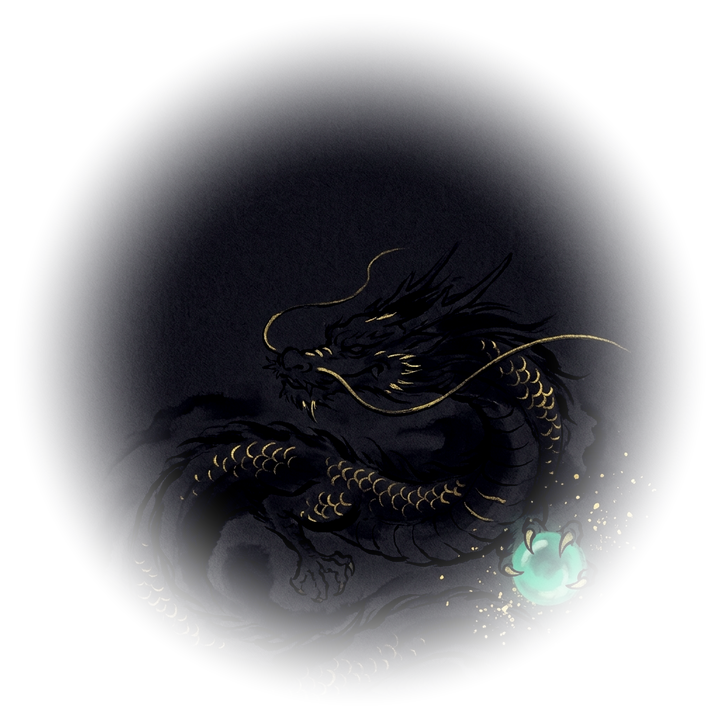
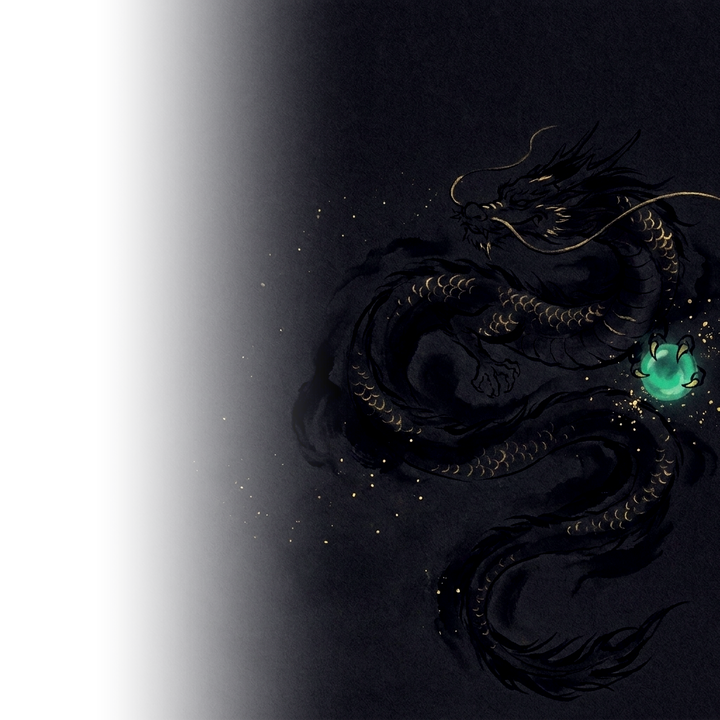
Calmer hover states, mobile verdict row, share intents, Ryūjin art on the right, lighter preview image
Hover pass (Ben: "the hover effects feel a bit extreme"): four motion tokens in index.css
(--ease-out, --hover-ms, --lift, --hover-glow); cards lift 2px with no scale and half the glow,
the chart block and the lookup panel only wake their border, the logo scales 3% with no rotation
or spinning border, buttons lift 1px. Transitions are split per property so the entrance spring
no longer drives hover; the stat-card entrance fill is `backwards` so its hover lift is not locked
by the finished animation. prefers-reduced-motion: no hover movement, entrances settle at once.

Mobile: the verdict row under 480px is a grid, pill on its own line, three figures beneath.
Share: "Share to Telegram" and "Post to X" intents beside "Copy share link" on the lookup answer
and the /rank/<address> page (src/lib/share.ts, ShareIntents.tsx).
Art: Ryūjin master recomposed with the dragon in the right third (Nano Banana edit of the same
master), ghosted like the other five; its share-card PNG uses a left-edge fade.
Preview: the site OG ground is softened (Gaussian 6) so Satori's lossless PNG drops from 1.1 MB.

Claude-Session: https://claude.ai/code/session_01AQnyZ9cyG8LmAZR4yoj7tu

diff --git a/src/App.css b/src/App.css
@@ -173,7 +173,7 @@
   justify-content: center;
   position: relative;
   overflow: hidden;
-  transition: all 0.4s cubic-bezier(0.34, 1.56, 0.64, 1);
+  transition: transform var(--hover-ms) var(--ease-out), border-color var(--hover-ms) ease, box-shadow var(--hover-ms) ease;
 }
 
 .logo::before {
@@ -195,17 +195,12 @@
 }
 
 .logo:hover {
-  transform: scale(1.08) rotate(2deg);
+  transform: scale(1.03);
   border-color: transparent;
 }
 
 .logo:hover::before {
   opacity: 1;
-  animation: rotate-border 3s linear infinite;
-}
-
-@keyframes rotate-border {
-  to { transform: rotate(360deg); }
 }
 
 .logo img {
@@ -382,7 +377,7 @@
   border-radius: 16px;
   padding: 1.5rem;
   overflow: hidden;
-  transition: all 0.4s cubic-bezier(0.34, 1.56, 0.64, 1);
+  transition: transform var(--hover-ms) var(--ease-out), border-color var(--hover-ms) ease, box-shadow var(--hover-ms) ease;
   cursor: default;
 }
 
@@ -420,17 +415,16 @@
 }
 
 .stat-card:hover {
-  transform: translateY(-6px) scale(1.01);
-  border-color: currentColor;
+  transform: translateY(var(--lift));
+  border-color: color-mix(in srgb, currentColor 55%, transparent);
   box-shadow:
-    0 20px 40px -15px rgba(0, 0, 0, 0.5),
-    0 0 30px -10px currentColor;
+    0 12px 24px -16px rgba(0, 0, 0, 0.5),
+    var(--hover-glow) currentColor;
 }
 
+/* The corner bracket brightens on hover; it no longer grows */
 .stat-card:hover::after {
   opacity: 0.5;
-  width: 32px;
-  height: 32px;
 }
 
 /* Card color variants */
@@ -452,7 +446,7 @@
 
 /* Staggered entrance animation */
 .stat-card {
-  animation: card-rise 0.6s cubic-bezier(0.34, 1.56, 0.64, 1) both;
+  animation: card-rise 0.6s cubic-bezier(0.34, 1.56, 0.64, 1) backwards;
 }
 
 .stat-card:nth-child(1) { animation-delay: 0.1s; }
@@ -545,15 +539,12 @@
   padding: 2rem;
   overflow: hidden;
   animation: card-rise 0.8s cubic-bezier(0.34, 1.56, 0.64, 1) 0.5s both;
-  transition: transform 0.3s ease, border-color 0.3s ease, box-shadow 0.3s ease;
+  transition: border-color var(--hover-ms) ease;
 }
 
+/* A chart is not a button: the border wakes up, the block stays put */
 .chart-section:hover {
-  transform: translateY(-4px);
-  border-color: var(--dragon-jade);
-  box-shadow:
-    0 20px 40px -15px rgba(0, 0, 0, 0.5),
-    0 0 30px -10px var(--dragon-jade);
+  border-color: var(--border-glow);
 }
 
 /* Torii gate gradient top border - like dragon ranks container */
@@ -1004,7 +995,7 @@
   border: 1px solid var(--border-subtle);
   border-radius: 14px;
   padding: 1.375rem;
-  transition: all 0.35s cubic-bezier(0.34, 1.56, 0.64, 1);
+  transition: transform var(--hover-ms) var(--ease-out), border-color var(--hover-ms) ease, box-shadow var(--hover-ms) ease;
   overflow: hidden;
 }
 
@@ -1128,7 +1119,7 @@
 .holder-fill {
   height: 100%;
   border-radius: 2px;
-  transition: width 0.8s cubic-bezier(0.34, 1.56, 0.64, 1);
+  transition: width 0.8s var(--ease-out);
 }
 
 .card-footer {
@@ -1431,7 +1422,7 @@
   border: none;
   border-radius: 10px;
   cursor: pointer;
-  transition: all 0.3s ease;
+  transition: transform var(--hover-ms) var(--ease-out), box-shadow var(--hover-ms) ease, background-color var(--hover-ms) ease, border-color var(--hover-ms) ease, color var(--hover-ms) ease;
 }
 
 .btn-primary {
@@ -1440,8 +1431,8 @@
 }
 
 .btn-primary:hover:not(:disabled) {
-  transform: translateY(-2px);
-  box-shadow: 0 10px 25px rgba(0, 212, 170, 0.3);
+  transform: translateY(-1px);
+  box-shadow: 0 6px 16px rgba(0, 212, 170, 0.18);
 }
 
 .btn:disabled {
@@ -1761,7 +1752,7 @@ footer a:hover {
   border: 1px solid var(--border-subtle);
   border-radius: 16px;
   padding: 1.5rem;
-  transition: all 0.4s cubic-bezier(0.34, 1.56, 0.64, 1);
+  transition: transform var(--hover-ms) var(--ease-out), border-color var(--hover-ms) ease, box-shadow var(--hover-ms) ease;
   overflow: hidden;
 }
 
@@ -1795,17 +1786,16 @@ footer a:hover {
 }
 
 .rank-card:hover {
-  transform: translateY(-6px) scale(1.02);
-  border-color: var(--rank-color);
+  transform: translateY(var(--lift));
+  border-color: color-mix(in srgb, var(--rank-color) 60%, transparent);
   box-shadow:
-    0 20px 40px -10px rgba(0, 0, 0, 0.5),
-    0 0 30px -5px var(--rank-color);
+    0 12px 24px -16px rgba(0, 0, 0, 0.5),
+    var(--hover-glow) var(--rank-color);
 }
 
+/* The corner bracket brightens on hover; it keeps its size */
 .rank-card:hover .rank-corner {
-  opacity: 0.7;
-  width: 28px;
-  height: 28px;
+  opacity: 0.6;
 }
 
 /* Rank Header */
@@ -1915,7 +1905,7 @@ footer a:hover {
 .rank-fill {
   height: 100%;
   border-radius: 3px;
-  transition: width 1s cubic-bezier(0.34, 1.56, 0.64, 1);
+  transition: width 0.8s var(--ease-out);
   box-shadow: 0 0 10px currentColor;
 }
 
@@ -2118,6 +2108,12 @@ footer a:hover {
 .lookup-panel {
   align-self: start;
 }
+/* The form and its answer are not buttons: border only, no lift */
+.lookup-panel:hover,
+.lookup-card:hover {
+  transform: none;
+  box-shadow: none;
+}
 .lookup-title {
   font-family: var(--font-display);
   font-size: 1.125rem;
@@ -2228,5 +2224,41 @@ footer a:hover {
   }
   .chart-verdict {
     gap: 0.6rem 1.1rem;
+  }
+}
+@media (max-width: 480px) {
+  /* Verdict row: the pill on its own line, the three figures in one row beneath it */
+  .chart-verdict {
+    display: grid;
+    grid-template-columns: repeat(3, auto);
+    justify-content: center;
+    column-gap: 1rem;
+    row-gap: 0.7rem;
+  }
+  .chart-verdict .status-indicator {
+    grid-column: 1 / -1;
+    justify-self: center;
+  }
+  .verdict-fig {
+    white-space: nowrap;
+  }
+}
+
+/* Motion preference: nothing moves on hover, entrances settle at once */
+@media (prefers-reduced-motion: reduce) {
+  .logo:hover,
+  .nav-link:hover,
+  .stat-card:hover,
+  .rank-card:hover,
+  .btn-primary:hover:not(:disabled),
+  .btn-ghost:hover {
+    transform: none;
+  }
+  *,
+  *::before,
+  *::after {
+    animation-duration: 0.01ms !important;
+    animation-iteration-count: 1 !important;
+    transition-duration: 0.01ms !important;
   }
 }

diff --git a/src/app/rank/[address]/page.tsx b/src/app/rank/[address]/page.tsx
@@ -4,7 +4,9 @@ import { loadHolders } from '@/lib/holders';
 import { normalizeAddress, rankLookup, type RankResult } from '@/lib/ranks';
 import RankCard from '@/components/RankCard';
 import CopyLinkButton from '@/components/CopyLinkButton';
+import ShareIntents from '@/components/ShareIntents';
 import { fmtInt, fmtPct, fmtTinc, fmtUtcClock } from '@/lib/format';
+import { SITE } from '@/lib/share';
 
 /**
  * /rank/<address>: a permalink for one wallet's Dragon Rank. The page is the card plus a way
@@ -12,8 +14,6 @@ import { fmtInt, fmtPct, fmtTinc, fmtUtcClock } from '@/lib/format';
  * gets pasted into Telegram and X. Re-rendered at most every 5 minutes, like the home page.
  */
 export const revalidate = 300;
-
-const SITE = 'https://www.tincburn.fyi';
 
 async function resolve(param: string): Promise<{ addr: string | null; r: RankResult | null }> {
   const addr = normalizeAddress(param);
@@ -81,6 +81,7 @@ export default async function RankPage({ params }: { params: { address: string }
             <RankCard r={r} />
             <div className="lookup-share">
               <CopyLinkButton url={url} />
+              <ShareIntents r={r} />
               <Link href="/#find-your-rank" className="btn btn-ghost">
                 Look up another wallet
               </Link>

diff --git a/src/components/HolderLookup.tsx b/src/components/HolderLookup.tsx
@@ -3,8 +3,10 @@
 import React, { useState } from 'react';
 import RankCard from './RankCard';
 import CopyLinkButton from './CopyLinkButton';
+import ShareIntents from './ShareIntents';
 import { normalizeAddress, rankLookup, type HoldersFile, type RankResult } from '@/lib/ranks';
 import { fmtUtcClock } from '@/lib/format';
+import { rankUrl } from '@/lib/share';
 
 type LookupState =
   | { kind: 'idle' }
@@ -12,8 +14,6 @@ type LookupState =
   | { kind: 'error'; msg: string }
   | { kind: 'missing'; file: HoldersFile }
   | { kind: 'found'; result: RankResult };
-
-const SITE = 'https://www.tincburn.fyi';
 
 /**
  * 位 Find your rank. Lives inside the Dragon Ranks container, between the six tier cards and
@@ -82,7 +82,8 @@ export default function HolderLookup() {
         <div className="lookup-result">
           <RankCard r={found} />
           <div className="lookup-share">
-            <CopyLinkButton url={`${SITE}/rank/${found.address}`} />
+            <CopyLinkButton url={rankUrl(found.address)} />
+            <ShareIntents r={found} />
             <a className="btn btn-ghost" href={`/rank/${found.address}`}>
               Open card
             </a>

diff --git a/src/lib/share.ts b/src/lib/share.ts
@@ -1,0 +1,22 @@
+import type { RankResult } from './ranks';
+import { fmtPct } from './format';
+
+export const SITE = 'https://www.tincburn.fyi';
+
+export function rankUrl(address: string): string {
+  return `${SITE}/rank/${address}`;
+}
+
+/** One line for a Telegram or X post; the link preview (the rank card image) carries the rest. */
+export function rankShareText(r: RankResult): string {
+  const rank = `#${r.rank.toLocaleString('en-US')} of ${r.count.toLocaleString('en-US')} TINC holders`;
+  return r.tier ? `${r.tier.name} on the TINC Dragon Ranks · ${rank} · ${fmtPct(r.pct)} of supply` : `TINC Dragon Rank · ${rank}`;
+}
+
+export function telegramShareUrl(url: string, text: string): string {
+  return `https://t.me/share/url?url=${encodeURIComponent(url)}&text=${encodeURIComponent(text)}`;
+}
+
+export function xPostUrl(url: string, text: string): string {
+  return `https://x.com/intent/post?text=${encodeURIComponent(text)}&url=${encodeURIComponent(url)}`;
+}

diff --git a/src/components/ShareIntents.tsx b/src/components/ShareIntents.tsx
@@ -1,0 +1,22 @@
+import React from 'react';
+import type { RankResult } from '@/lib/ranks';
+import { rankShareText, rankUrl, telegramShareUrl, xPostUrl } from '@/lib/share';
+
+/**
+ * Telegram and X share links for a rank card: plain anchors to the platforms' share intents,
+ * no hooks, so they render on the server permalink and in the client lookup alike.
+ */
+export default function ShareIntents({ r }: { r: RankResult }) {
+  const url = rankUrl(r.address);
+  const text = rankShareText(r);
+  return (
+    <>
+      <a className="btn btn-ghost" href={telegramShareUrl(url, text)} target="_blank" rel="noopener noreferrer">
+        Share to Telegram
+      </a>
+      <a className="btn btn-ghost" href={xPostUrl(url, text)} target="_blank" rel="noopener noreferrer">
+        Post to X
+      </a>
+    </>
+  );
+}

diff --git a/src/index.css b/src/index.css
@@ -32,6 +32,12 @@
   --border-subtle: rgba(0, 212, 170, 0.12);
   --border-glow: rgba(0, 212, 170, 0.3);
 
+  /* Motion: hover states ease out and lift 2px; the spring is reserved for entrances */
+  --ease-out: cubic-bezier(0.22, 0.61, 0.36, 1);
+  --hover-ms: 250ms;
+  --lift: -2px;
+  --hover-glow: 0 0 18px -8px;
+
   /* Typography */
   --font-display: 'Dela Gothic One', sans-serif;
   --font-body: 'Zen Maru Gothic', sans-serif;
